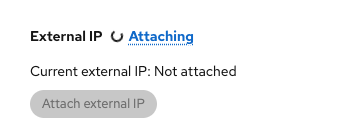
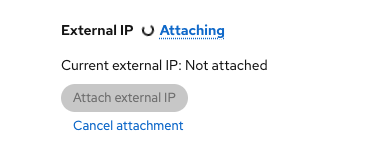
OSAC-7158: capture attachment cancel state
Assisted-by: Cursor <cursoragent@cursor.com>

Changed region(s): [[0.0862, 0.5323, 0.6897, 0.9677], [0.0862, 0.1694, 0.6034, 0.3871], [0.1437, 0.4113, 0.7184, 0.4839]]

diff --git a/docs/vm-overview-ux-handoff.md b/docs/vm-overview-ux-handoff.md
@@ -23,7 +23,7 @@ The Overview **Status** row shows VM power state only. Keep active instance type
 
 ![Current external IP shown as Not attached before a manual attachment](screenshots/latest-ux/vm-operation-not-attached-0.5.png)
 
-A refreshed Attaching screenshot showing **Cancel attachment** is pending.
+![First external-IP attachment in progress, with Attach disabled and Cancel attachment available](screenshots/latest-ux/vm-operation-ip-attaching-0.5.png)
 
 ![Final attachment failure shown in the top alert while current values remain visible](screenshots/latest-ux/vm-operation-failed-attachment-overview-0.5.png)
 
@@ -97,7 +97,7 @@ The UI needs the operation type, phase (waiting for restart, retry scheduled, ap
 
 ## Access and initial run examples
 
-These 0.5 captures show Cloud-init and Windows Sysprep. The retry and failure captures above reflect the latest External IP design. Updated Attaching and Detaching screenshots are still pending after the new cancel action.
+These 0.5 captures show Cloud-init and Windows Sysprep. The retry and failure captures above reflect the latest External IP design. The updated Attaching capture above shows Cancel attachment. A current Detaching screenshot is still pending.
 
 ![Inline Cloud-init value](screenshots/latest-ux/vm-overview-inline-0.5.png)
 
